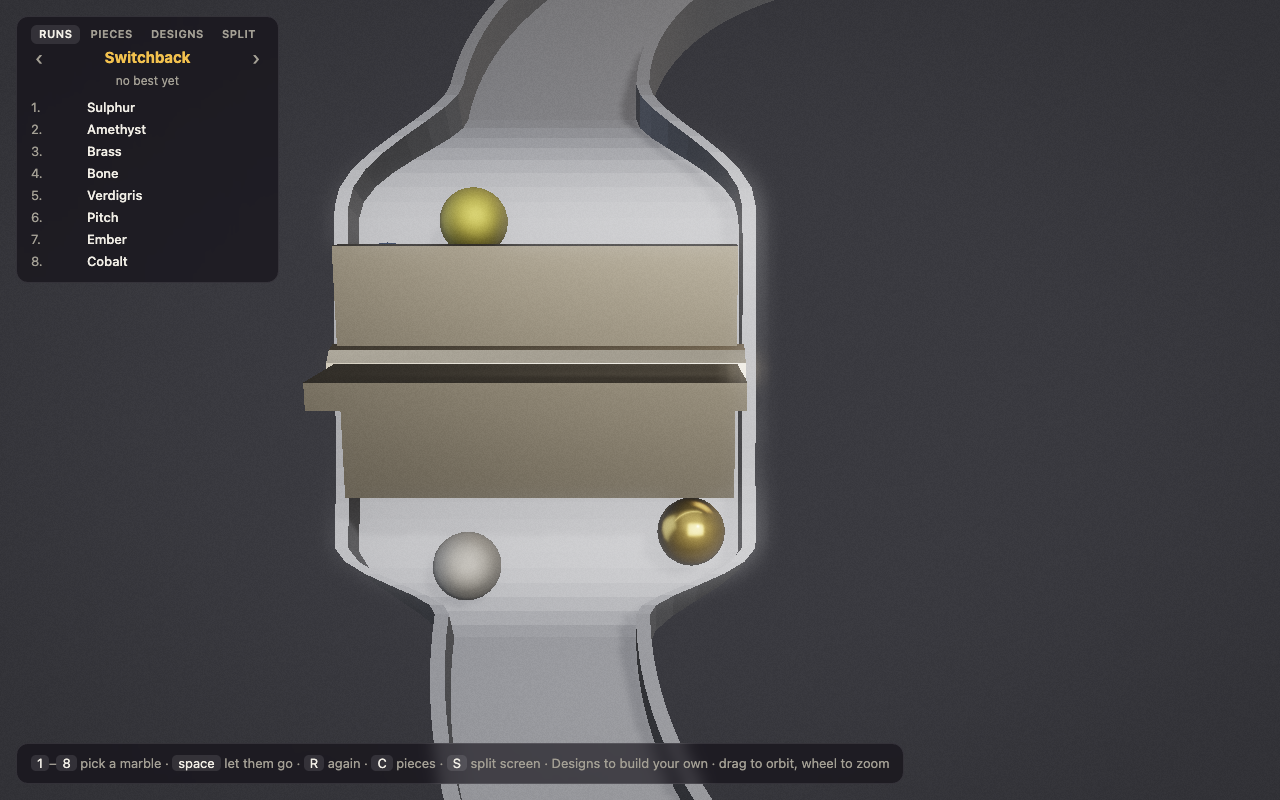
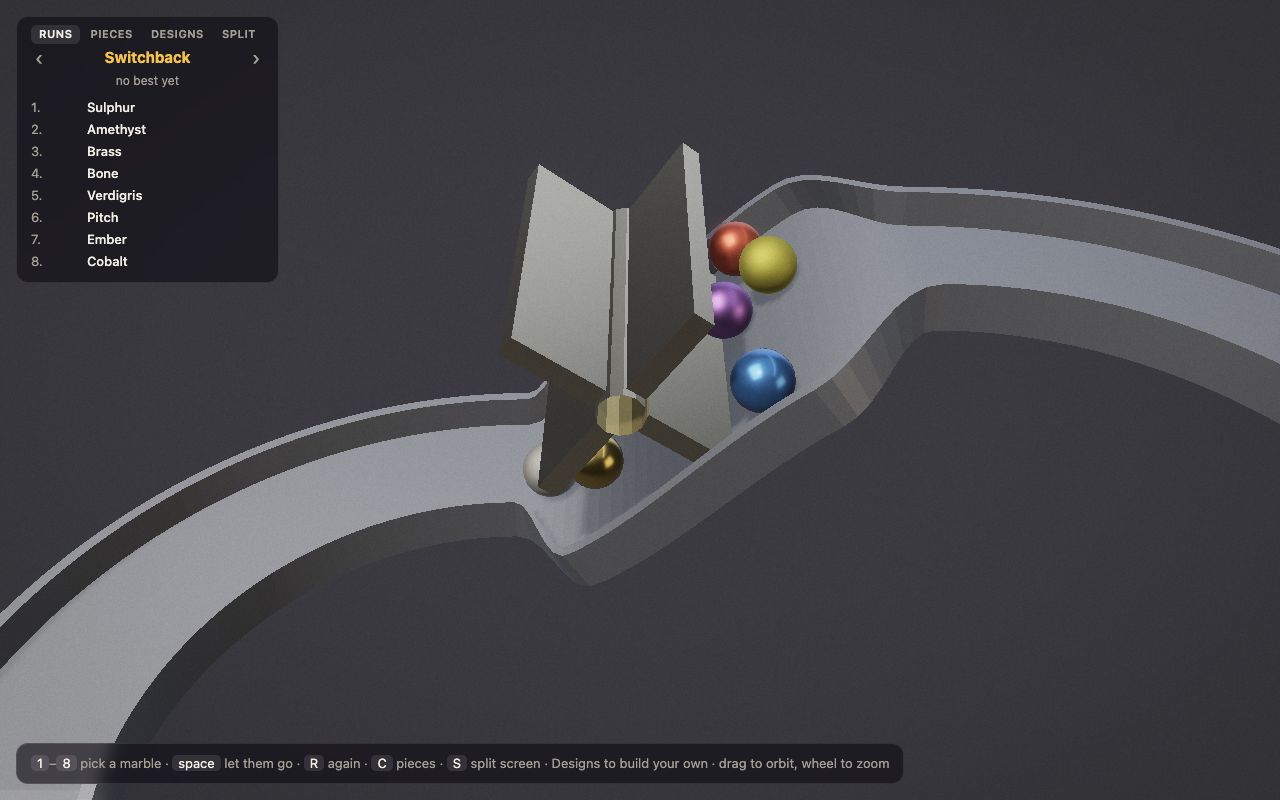
A wheel's paddle is met as the arm it is drawn as, and comes down rather than appearing
A paddle was taken as its slice through the height of the marbles' middles:
nothing at all until its tip got that low, and then its whole thickness at
once. A paddle coming down where a marble sat shoved it its own reach, 0.63,
in a single step, against half a marble of 0.45. It is now met as the arm the
scene already draws — a rod swung from its axle, rounded at the tip — so what
a marble touches grows from nothing as the paddle travels. `pose` takes the
radius of the ball put to it and answers how thick the thing is where the
marbles' middles are, in `Pose.radius`, which is its own thickness for
everything but a paddle.

The true arm takes up more of the pen than that slice did, so the axle rises
from 1.1 to 1.35 and the arm from 1.56 to 1.81, still just long enough for
the tip to dip to the floor. At 1.1 the arm pressed a crowd into itself over
3,798 frames of 24 seeds out of a gate and into a funnel; at 1.35, none. The
wheel still holds every marble, from about half a second to a second and a
half, gathers those that come together abreast behind a paddle, and lets them
go at once.

Switchback's pace moved 5.66 to 5.73 minutes and the Stress Test's 20.69 to
20.72, both deterministic and well inside the gate's tolerance, and their
baselines are written again since the wheel was meant to change. `wheel.png`
is drawn again for the bigger wheel, and its camera moved from down the pen,
where the paddles stand across it and hid the very field the picture is of,
[…]

diff --git a/src/track.ts b/src/track.ts
@@ -245,20 +245,79 @@ export interface Pose {
   half: number;
   va: number;
   vc: number;
+  /**
+   * How thick it is where the marbles' middles are, from its middle to its
+   * face: its own thickness for everything but a wheel's paddle, whose slice
+   * at that height grows as it comes down.
+   */
+  radius: number;
   present: boolean;
 }
 
 /** A pose to read into, so reading one makes nothing. */
 export function pose0(): Pose {
-  return { along: 0, across: 0, da: 1, dc: 0, half: 0, va: 0, vc: 0, present: true };
+  return { along: 0, across: 0, da: 1, dc: 0, half: 0, va: 0, vc: 0, radius: 0, present: true };
 }
+
+/**
+ * Where along the chute a wheel's paddle is solid, at the height of a
+ * marble's middle, for a ball of `ball` against it: the arm as a rod swung
+ * `theta` from straight down about an axle `axle` above that height, `arm`
+ * long and `thick` from its middle to its face. Its ends are rounded, so as
+ * the tip comes down on a marble the part of it the marble meets grows from
+ * nothing, as the paddle travels, rather than being there all at once.
+ * Into `span`, from the axle's own place along the chute; whether any of it
+ * is down there at all.
+ */
+function paddleSpan(axle: number, arm: number, thick: number, theta: number, span: number[]): boolean {
+  const s = Math.sin(theta),
+    c = Math.cos(theta);
+  let lo = Infinity,
+    hi = -Infinity;
+  const take = (a: number, b: number) => {
+    if (b <= a) return;
+    lo = Math.min(lo, a);
+    hi = Math.max(hi, b);
+  };
+  // the rounded end at the tip, and the one at the axle, wherever either comes down to a marble's middle
+  const tip = axle - arm * c;
+  if (Math.abs(tip) < thick) {
+    const w = Math.sqrt(thick * thick - tip * tip);
+    take(arm * s - w, arm * s + w);
+  }
+  if (Math.abs(axle) < thick) {
+    const w = Math.sqrt(thick * thick - axle * axle);
+    take(-w, w);
+  }
+  // the arm between them: within `thick` of the line it lies along, and between its two ends
+  if (Math.abs(c) > 1e-9) {
+    let from = (axle * s - thick) / c,
+      to = (axle * s + thick) / c;
+    if (from > to) [from, to] = [to, from];
+    if (Math.abs(s) > 1e-9) {
+      let end = -(axle * c) / s,
+        other = (arm - axle * c) / s;
+      if (end > other) [end, other] = [other, end];
+      take(Math.max(from, end), Math.min(to, other));
+    } else if (axle * c >= 0 && axle * c <= arm) take(from, to);
+  }
+  span[0] = lo;
+  span[1] = hi;
+  return hi > lo;
+}
+
+/** A span to read into, and the same a moment on, so reading a paddle makes nothing. */
+const span = [0, 0],
+  later = [0, 0];
+/** How long after a moment a paddle is read again, to tell how fast it goes on. */
+const SOON = 1e-4;
 
 /**
  * Where an obstacle is at race time `t`, its turn begun at `phase` of the way
  * round. Pure: the same moment and phase give the same pose, which is what
  * keeps a race that meets a moving piece the same from the same seed.
  */
-export function pose(ob: Obstacle, t: number, phase: number, out: Pose): Pose {
+export function pose(ob: Obstacle, t: number, phase: number, out: Pose, ball = 0): Pose {
   out.along = ob.along;
   out.across = ob.across;
   out.da = Math.cos(ob.angle);
@@ -266,6 +325,7 @@ export function pose(ob: Obstacle, t: number, phase: number, out: Pose): Pose {
   out.half = ob.half;
   out.va = 0;
   out.vc = 0;
+  out.radius = ob.radius;
   out.present = true;
   const m = ob.motion;
   switch (m.kind) {
@@ -299,12 +359,19 @@ export function pose(ob: Obstacle, t: number, phase: number, out: Pose): Pose {
       // from straight down, round the way that carries a paddle on along the chute at the bottom of its turn
       const f = (((t / m.period + phase + m.turn) % 1) + 1) % 1;
       const theta = Math.PI * 2 * f - Math.PI;
-      const c = Math.cos(theta);
-      // down in the chute only while it reaches as low as a marble's middle
-      out.present = c > 0 && m.arm * c >= m.axle;
+      // in the way wherever the arm, as a rod swung from its axle, reaches a ball whose middle is at a marble's
+      // height: the wheel that is drawn. Taken as the arm's slice through that height alone, a paddle was not
+      // there at all until its tip got down to a marble's middle and then was there whole, so one that came down
+      // where a marble sat shoved it its own whole reach, 0.63, in a single step
+      out.present = paddleSpan(m.axle, m.arm, ob.radius + ball, theta, span);
       if (!out.present) return out;
-      out.along = ob.along + m.axle * Math.tan(theta);
-      out.va = (m.axle * ((Math.PI * 2) / m.period)) / (c * c);
+      out.along = ob.along + (span[0] + span[1]) / 2;
+      out.radius = (span[1] - span[0]) / 2 - ball;
+      // how fast it goes on, read a moment on: its middle's own pace, and not how fast its faces part as it comes
+      // down, which at the first touch of its tip is without limit and would throw whatever it touched
+      const soon = theta + ((Math.PI * 2) / m.period) * SOON;
+      if (paddleSpan(m.axle, m.arm, ob.radius + ball, soon, later))
+        out.va = ((later[0] + later[1]) / 2 - (span[0] + span[1]) / 2) / SOON;
       return out;
     }
   }
@@ -623,15 +690,21 @@ export const PEG = 0.22;
  * pen is either side of the middle; how far its paddles reach across, which
  * is the pen less a paddle's own thickness, so no marble gets round an end;
  * how thick a paddle is, how high the axle stands above a marble's middle,
- * how long a paddle is, and how long the wheel takes to go round. The axle's
- * height sets how far apart two paddles are along the pen while both are
- * down: at 1 they were 2.0 apart, and a whole field could not fit between
- * them in two rows, so the one coming down pressed marbles into each other.
- * At 1.1 they are 2.2 apart, and a paddle only just long enough to dip to the
- * floor is still down for more than a quarter of a turn, so there is never a
- * moment with none down for a marble to slip under.
+ * how long a paddle is — just far enough to dip to the floor — and how long
+ * the wheel takes to go round.
+ *
+ * The axle's height sets how far apart two paddles are along the pen while
+ * both are down, and so whether a whole field fits between them: at 1 they
+ * were 2.0 apart and the one coming down pressed marbles into each other,
+ * and at 1.1 they were 2.2 apart, which was room enough while a paddle was
+ * only its slice at the height of the marbles' middles. Met as the arm it is
+ * drawn as, which is what `pose` now hands the solver, a paddle takes up more
+ * of the pen than that slice did, and at 1.1 a crowd was pressed together
+ * again — 3,798 frames of it over 24 seeds out of a gate and into a funnel.
+ * At 1.35, with the arm grown to match, none is, and the wheel still holds
+ * every marble from about half a second to a second and a half.
  */
-export const WHEEL = { pen: 2.6, half: 2.42, radius: 0.18, axle: 1.1, arm: 1.56, period: 4.8 };
+export const WHEEL = { pen: 2.6, half: 2.42, radius: 0.18, axle: 1.35, arm: 1.81, period: 4.8 };
 
 /**
  * Rows of pegs, each row shifted half a gap from the one before, so that a

diff --git a/test/track.test.ts b/test/track.test.ts
@@ -18,6 +18,7 @@ import {
   compile,
   exitOf,
   pose,
+  pose0,
   bowlHeight,
   moundHeight,
   spot,
@@ -339,7 +340,7 @@ describe('the track', () => {
       const seg = track.segments[1];
       const pegs = seg.obstacles;
       expect(pegs.length).toBeGreaterThan(10);
-      const at = { along: 0, across: 0, da: 0, dc: 0, half: 0, va: 0, vc: 0, present: true };
+      const at = pose0();
       for (const peg of pegs) {
         expect(peg.motion.kind).toBe('fixed');
         pose(peg, 0, 0, at);
@@ -359,7 +360,7 @@ describe('the track', () => {
     });
 
     it('moves a sweeper across and back, a gate open and shut, and a wheel round, with time', () => {
-      const out = { along: 0, across: 0, da: 0, dc: 0, half: 0, va: 0, vc: 0, present: true };
+      const out = pose0();
       const sweeper = track.segments[2].obstacles.find((o) => o.motion.kind === 'sweep')!;
       const across = [0, 0.25, 0.5, 0.75].map(
         (f) => pose(sweeper, f * (sweeper.motion as { period: number }).period, 0, out).across,
@@ -386,8 +387,40 @@ describe('the track', () => {
       }
     });
 
+    it('is met, as it comes down, as the arm that is drawn: the rod from its axle, tip and all', () => {
+      const paddle = track.segments[4].obstacles.find((o) => o.motion.kind === 'paddle')!;
+      const m = paddle.motion as { period: number; axle: number; arm: number; turn: number };
+      const ball = RADIUS;
+      const out = pose0();
+      // the arm worked out the long way round, from where it hangs: how far a marble's middle, sitting `a` along
+      // the chute at the height of the middles, is from the rod between the axle and the tip
+      const away = (theta: number, a: number) => {
+        const tip = [Math.sin(theta) * m.arm, m.axle - Math.cos(theta) * m.arm];
+        const along = tip[0],
+          up = tip[1] - m.axle;
+        const len = Math.hypot(along, up);
+        const s = Math.min(Math.max(((a - 0) * along + (0 - m.axle) * up) / (len * len), 0), 1);
+        return Math.hypot(a - s * along, 0 - (m.axle + s * up));
+      };
+      let seen = 0;
+      for (let k = 0; k < 60; k++) {
+        const t = (k / 60) * m.period;
+        pose(paddle, t, 0, out, ball);
+        const theta = Math.PI * 2 * ((((t / m.period + m.turn) % 1) + 1) % 1) - Math.PI;
+        // where the arm is solid at a marble's height, as the pose has it, against where a marble really touches it
+        for (let n = -40; n <= 40; n++) {
+          const a = paddle.along + n * 0.05;
+          const touches = away(theta, a - paddle.along) < paddle.radius + ball;
+          const inPose = out.present && Math.abs(a - out.along) < out.radius + ball;
+          expect(inPose, `at ${t.toFixed(2)} s, ${(a - paddle.along).toFixed(2)} from the axle`).toBe(touches);
+          if (touches) seen++;
+        }
+      }
+      expect(seen, 'and it is down some of the time, or this proves nothing').toBeGreaterThan(100);
+    });
+
     it('keeps time for each moving piece apart, so a race can start them anywhere in their turn', () => {
-      const out = { along: 0, across: 0, da: 0, dc: 0, half: 0, va: 0, vc: 0, present: true };
+      const out = pose0();
       const sweeper = track.segments[2].obstacles.find((o) => o.motion.kind === 'sweep')!;
       expect(sweeper.slot).toBeGreaterThanOrEqual(0);
       expect(pose(sweeper, 0, 0, out).across).not.toBeCloseTo(pose(sweeper, 0, 0.25, { ...out }).across, 2);

diff --git a/test/marbles.test.ts b/test/marbles.test.ts
@@ -674,6 +674,43 @@ describe('the marbles', () => {
       }
     });
 
+    it('comes down on a marble without shoving it more than half a marble in a step, wherever it sits under the wheel', () => {
+      const run = chain(['start', 'ramp', 'wheel', 'straight', 'finish']);
+      const axle = compile(run).segments[2].obstacles[0].along;
+      let worst = 0,
+        where = '';
+      // a marble that cannot roll, anywhere from ahead of the axle to well behind where a paddle first comes down,
+      // held there a whole turn of the wheel: whatever moves it, a paddle moved
+      for (let behind = -0.6; behind <= 2; behind += 0.1)
+        for (const across of [-1, 0, 1]) {
+          const { marbles } = setOn(run, 2, axle - behind, across, 0);
+          marbles.friction = 1000;
+          const paddles = marbles.track.segments[2].obstacles;
+          marbles.phase[paddles[0].slot] = 0;
+          // set down clear of every paddle, as a marble always arrives, and not inside one already down
+          const set = pose0();
+          const clear = paddles.every((p) => {
+            pose(p, 0, 0, set, RADIUS);
+            return !set.present || Math.abs(marbles.along[0] - set.along) >= set.radius + RADIUS;
+          });
+          if (!clear) continue;
+          for (let f = 0; f < 5 * 60; f++) {
+            const was = marbles.segment[0];
+            const along = marbles.along[0],
+              side = marbles.across[0];
+            marbles.step(DT);
+            // off the wheel's own piece, where how far along means something else
+            if (marbles.segment[0] !== was) break;
+            const moved = Math.hypot(marbles.along[0] - along, marbles.across[0] - side);
+            if (moved > worst) {
+              worst = moved;
+              where = `${behind.toFixed(1)} behind the axle, ${across} across, frame ${f}`;
+            }
+          }
+        }
+      expect(worst, where).toBeLessThanOrEqual(RADIUS);
+    });
+
     it('holds back every marble that comes under the wheel, whichever side of the chute it comes in on', () => {
       /** How long a marble let go into the piece `across` its chute takes to cross it, the wheel's turn begun at `phase`. */
       const crossing = (kind: 'wheel' | 'ramp', across: number, phase: number) => {
@@ -699,13 +736,14 @@ describe('the marbles', () => {
     });
 
     it('gathers a whole field between two of its paddles without pressing any into another', () => {
-      // a field let out of a gate's pen together, and one crowding off the wheel into a bowl: with its axle lower,
-      // two paddles were down at once too close together for eight marbles to fit between them
+      // a field let out of a gate's pen together, and one crowding off the wheel into a bowl: the arm takes up
+      // more of the pen than its slice at a marble's height did, and with the axle lower two paddles were down at
+      // once too close together for eight marbles to fit between them
       for (const kinds of [
         ['start', 'gate', 'wheel', 'finish'],
         ['start', 'wheel', 'funnel', 'finish'],
       ] as const)
-        for (let seed = 1; seed <= 12; seed++) {
+        for (let seed = 1; seed <= 24; seed++) {
           const { marbles } = fieldOn(chain([...kinds]), seed);
           marbles.release();
           for (let f = 0; f < 60 * 60 && !marbles.over; f++) {

diff --git a/src/marbles.ts b/src/marbles.ts
@@ -679,7 +679,7 @@ export class Marbles {
     const seg = this.track.segments[this.segment[i]];
     let hit = false;
     for (const ob of seg.obstacles) {
-      const p = pose(ob, this.t, ob.slot >= 0 ? this.phase[ob.slot] : 0, this.at);
+      const p = pose(ob, this.t, ob.slot >= 0 ? this.phase[ob.slot] : 0, this.at, RADIUS);
       if (!p.present) continue;
       // the nearest point on the rod to the marble, and the way from it to the marble
       const pa = this.along[i] - p.along,
@@ -688,7 +688,7 @@ export class Marbles {
       const qa = pa - p.da * s,
         qc = pc - p.dc * s;
       const d = Math.hypot(qa, qc);
-      const reach = ob.radius + RADIUS;
+      const reach = p.radius + RADIUS;
       if (d >= reach) continue;
       let na = d > 1e-6 ? qa / d : -1,
         nc = d > 1e-6 ? qc / d : 0;
@@ -1468,13 +1468,13 @@ export function checkMarbles(marbles: Marbles): string[] {
     if (state !== RACING) continue;
     // nothing sits inside a peg, a sweeper, a shut gate or a wheel's paddle, beyond the give a push leaves
     for (const ob of piece.obstacles) {
-      pose(ob, marbles.t, ob.slot >= 0 ? marbles.phase[ob.slot] : 0, at);
+      pose(ob, marbles.t, ob.slot >= 0 ? marbles.phase[ob.slot] : 0, at, RADIUS);
       if (!at.present) continue;
       const pa = marbles.along[i] - at.along,
         pc = marbles.across[i] - at.across;
       const s = Math.min(Math.max(pa * at.da + pc * at.dc, -at.half), at.half);
       const d = Math.hypot(pa - at.da * s, pc - at.dc * s);
-      if (d < ob.radius + RADIUS - 0.05)
+      if (d < at.radius + RADIUS - 0.05)
         problems.push(`marble ${i} is ${d.toFixed(3)} from the middle of a ${ob.motion.kind}, inside it`);
     }
   }

diff --git a/smoke/look.spec.ts b/smoke/look.spec.ts
@@ -167,8 +167,9 @@ test.describe('what it looks like', () => {
       g.release();
       g.follow(false);
       g.step(584);
-      // looking down its pen, so the wheel is seen right across it from wall to wall, with the field at it
-      g.look(13.25, -28.05, -25.5, { azimuth: -Math.PI / 2, polar: 0.75, radius: 14 });
+      // from the side, where the paddles are edge on: down the pen they stand right across it from wall to wall,
+      // and a field gathered behind one is under the one before it and hidden
+      g.look(13.25, -28.05, -25.5, { azimuth: 0, polar: 0.9, radius: 16 });
       g.step(1);
       return g.marbles().filter((m) => m.segment === 8).length;
     });

diff --git a/CLAUDE.md b/CLAUDE.md
@@ -357,9 +357,15 @@ ever builds on the end. Open, and belonging with those:
   quarter of a marble (`JUMP`): the solver reckons it every step, keeps the
   worst since the gate in `Marbles.jumped`, and `checkMarbles` rules on it.
   The funnel's two jumps, into its bowl and out of its hole, were this. A
-  push is counted as explained, and one is still big: a wheel's paddle
-  comes down on a marble all at once and shoves it clear. That is next
-  through `/bug`, and then pushes are held to half a marble a step as well.
+  push is counted as explained, and some are still big. Measured over every
+  run and catalog piece on 24 seeds, what a thing in the way shoves a marble
+  in one step was: a wheel 0.63, a gate 0.61, a sweeper 0.48, a peg 0.34,
+  and marbles parting one another in a crowd up to about 0.9, against half a
+  marble of 0.45. The wheel's was the paddle appearing whole rather than
+  coming down, and is fixed; the gate's and the sweeper's are their own
+  bugs, still open, and the crowd's is the settling's. Pushes are held to
+  half a marble a step only once all of those are done, since a rule the
+  gate and the sweeper break would be a rule written red.
   A crowd squeezing into the neck of a gate's pen was the other: held there
   by a shut gate, the whole field spread out across the pen's full width,
   and closing that down to the chute's over the last fifth of the piece
@@ -379,9 +385,22 @@ ever builds on the end. Open, and belonging with those:
 - **A wheel is a gate that turns.** A marble that catches a paddle up is
   held until the paddle lifts out, and those that come close together are
   gathered abreast behind it and let go at once. It stands right across its
-  pen, and holds every marble from half a second to a second and a third;
-  over one half of its pen, the field came down the other half after a bend
-  and went by untouched.
+  pen, and holds every marble from about half a second to a second and a
+  half; over one half of its pen, the field came down the other half after a
+  bend and went by untouched. What a marble meets is the arm the scene
+  draws: `pose` takes the radius of the ball put to it (`RADIUS`, from the
+  solver) and works out where the arm — a rod swung from its axle, rounded
+  at the tip — is solid at the height of the marbles' middles, into
+  `Pose.radius`. Taken instead as that slice alone, as it was, a paddle was
+  not there at all until its tip reached a marble's middle and then was
+  there whole, and one coming down where a marble sat shoved it its own
+  reach, 0.63, in a single step. The arm takes up more of the pen than the
+  slice did, so the axle stands at 1.35 and the arm is 1.81, just long
+  enough for the tip to dip to the floor: at 1.1 the true arm pressed a
+  crowd into itself over 3,798 frames of 24 seeds out of a gate and into a
+  funnel, and at 1.35 none. `test/track.test.ts` holds the arm to the same
+  geometry worked out the long way round, a marble's middle against the rod,
+  at sixty moments of the turn and eighty places along the chute.
 - **The lane at the end is felt and a tilt.** Whatever a marble crosses the
   line at, it is slowed to a crawl (`LANE_PULL / LANE_BRAKE`) and creeps on
   to its place; without the tilt it stopped short of the queue, and
